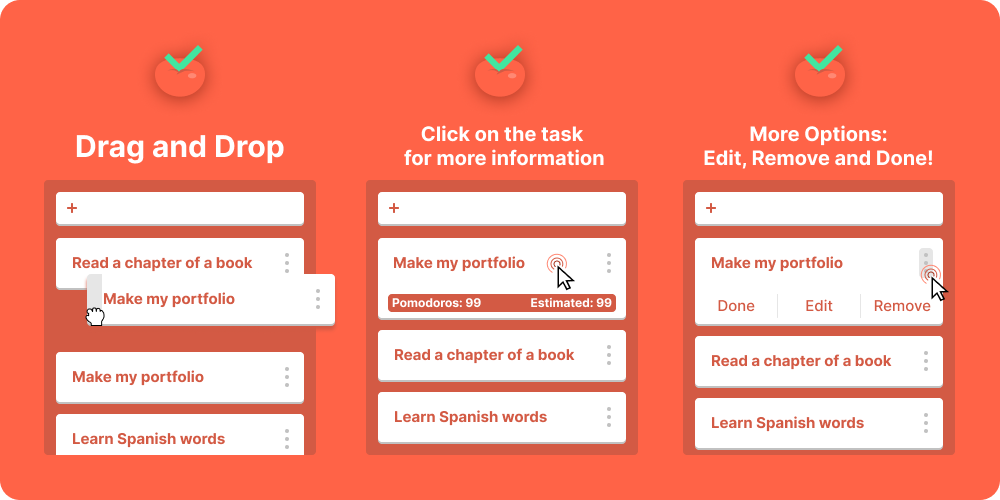
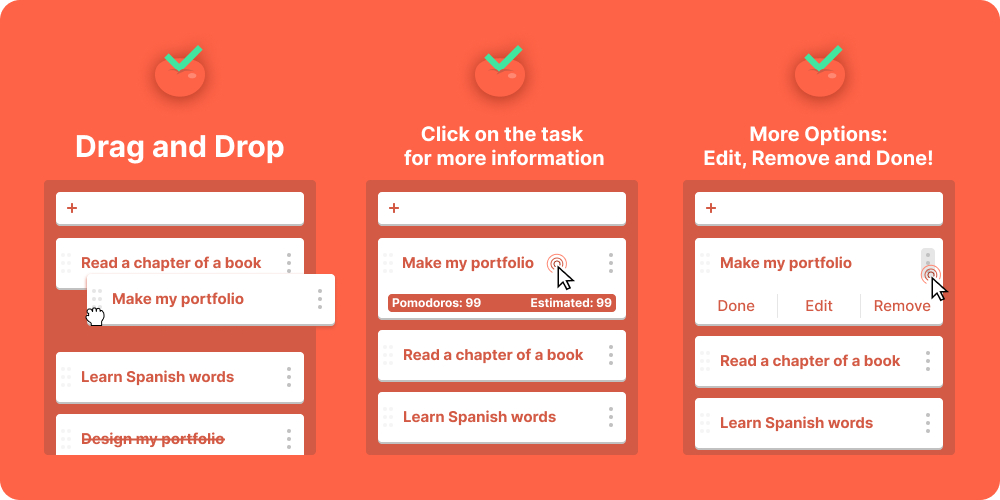
Added metas and better UI

diff --git a/src/pages/_document.tsx b/src/pages/_document.tsx
@@ -25,15 +25,26 @@ class MyDocument extends Document {
             property="twitter:url"
             content="https://pomo-do-more.vercel.app/"
           />
+          <meta property="og:site_name" content="Pomo Do More"></meta>
           <meta property="twitter:title" content="&#127813; Pomo Do More" />
+          <meta property="og:title" content="&#127813; Pomo Do More" />
           <meta
             property="twitter:description"
             content="A minimalist Pomodoro clock for do more."
           />
           <meta
+            property="og:description"
+            content="A minimalist Pomodoro clock for do more."
+          ></meta>
+          <meta
             property="twitter:image:src"
             content="https://raw.githubusercontent.com/Alonso-Pablo/pomo-do-more/master/public/og.png"
           />
+          <meta
+            property="og:image"
+            content="https://raw.githubusercontent.com/Alonso-Pablo/pomo-do-more/master/public/og.png"
+          />
+          <meta property="og:url" content="https://pomo-do-more.vercel.app" />
         </Head>
         <body>
           <Main />

diff --git a/src/components/sections/TaskList.tsx b/src/components/sections/TaskList.tsx
@@ -120,7 +120,22 @@ const TaskList: React.FC<TaskListProps> = ({
                     cursor: isDragged ? 'grabbing' : 'grab'
                   }}
                   tabIndex={-1}
-                ></button>
+                >
+                  <svg
+                    xmlns="http://www.w3.org/2000/svg"
+                    width="10"
+                    height="20"
+                    viewBox="0 0 10 20"
+                    fill="none"
+                  >
+                    <rect y="8" width="4" height="4" rx="2" />
+                    <rect y="16" width="4" height="4" rx="2" />
+                    <rect width="4" height="4" rx="2" />
+                    <rect x="6" y="8" width="4" height="4" rx="2" />
+                    <rect x="6" y="16" width="4" height="4" rx="2" />
+                    <rect x="6" width="4" height="4" rx="2" />
+                  </svg>
+                </button>
                 <div
                   onClick={() => {
                     const { key = 0 } = props

diff --git a/src/css/components/taskList.module.css b/src/css/components/taskList.module.css
@@ -101,19 +101,28 @@
 
 .grippyPart {
   display: flex;
-  min-width: 15px;
+  min-width: 20px;
   min-height: 50px;
   height: 100%;
-
+  justify-content: center;
+  align-items: center;
   border: none;
   border-radius: 4px 0 0 4px;
-  transition: opacity 0.5s;
-  opacity: 0;
-  background-color: var(--gray-light);
 }
-.grippyPart:hover {
+/* .grippyPart:hover {
   transition: opacity 0.3s;
   opacity: 1;
+} */
+
+.grippyPart svg rect {
+  fill: #F5F5F5;
+}
+
+/* .nameTaskAndMoreOptions:hover .grippyPart svg rect {
+  fill: #E6E6E6;
+} */
+.grippyPart:hover svg rect {
+  fill: #E6E6E6
 }
 
 .textPart {
@@ -129,7 +138,7 @@
   height: 100%;
   min-width: 24px;
   min-height: 50px;
-  padding: 0 1rem;
+  padding: 0 .8rem;
   align-items: center;
   align-self: flex-start;
 }
